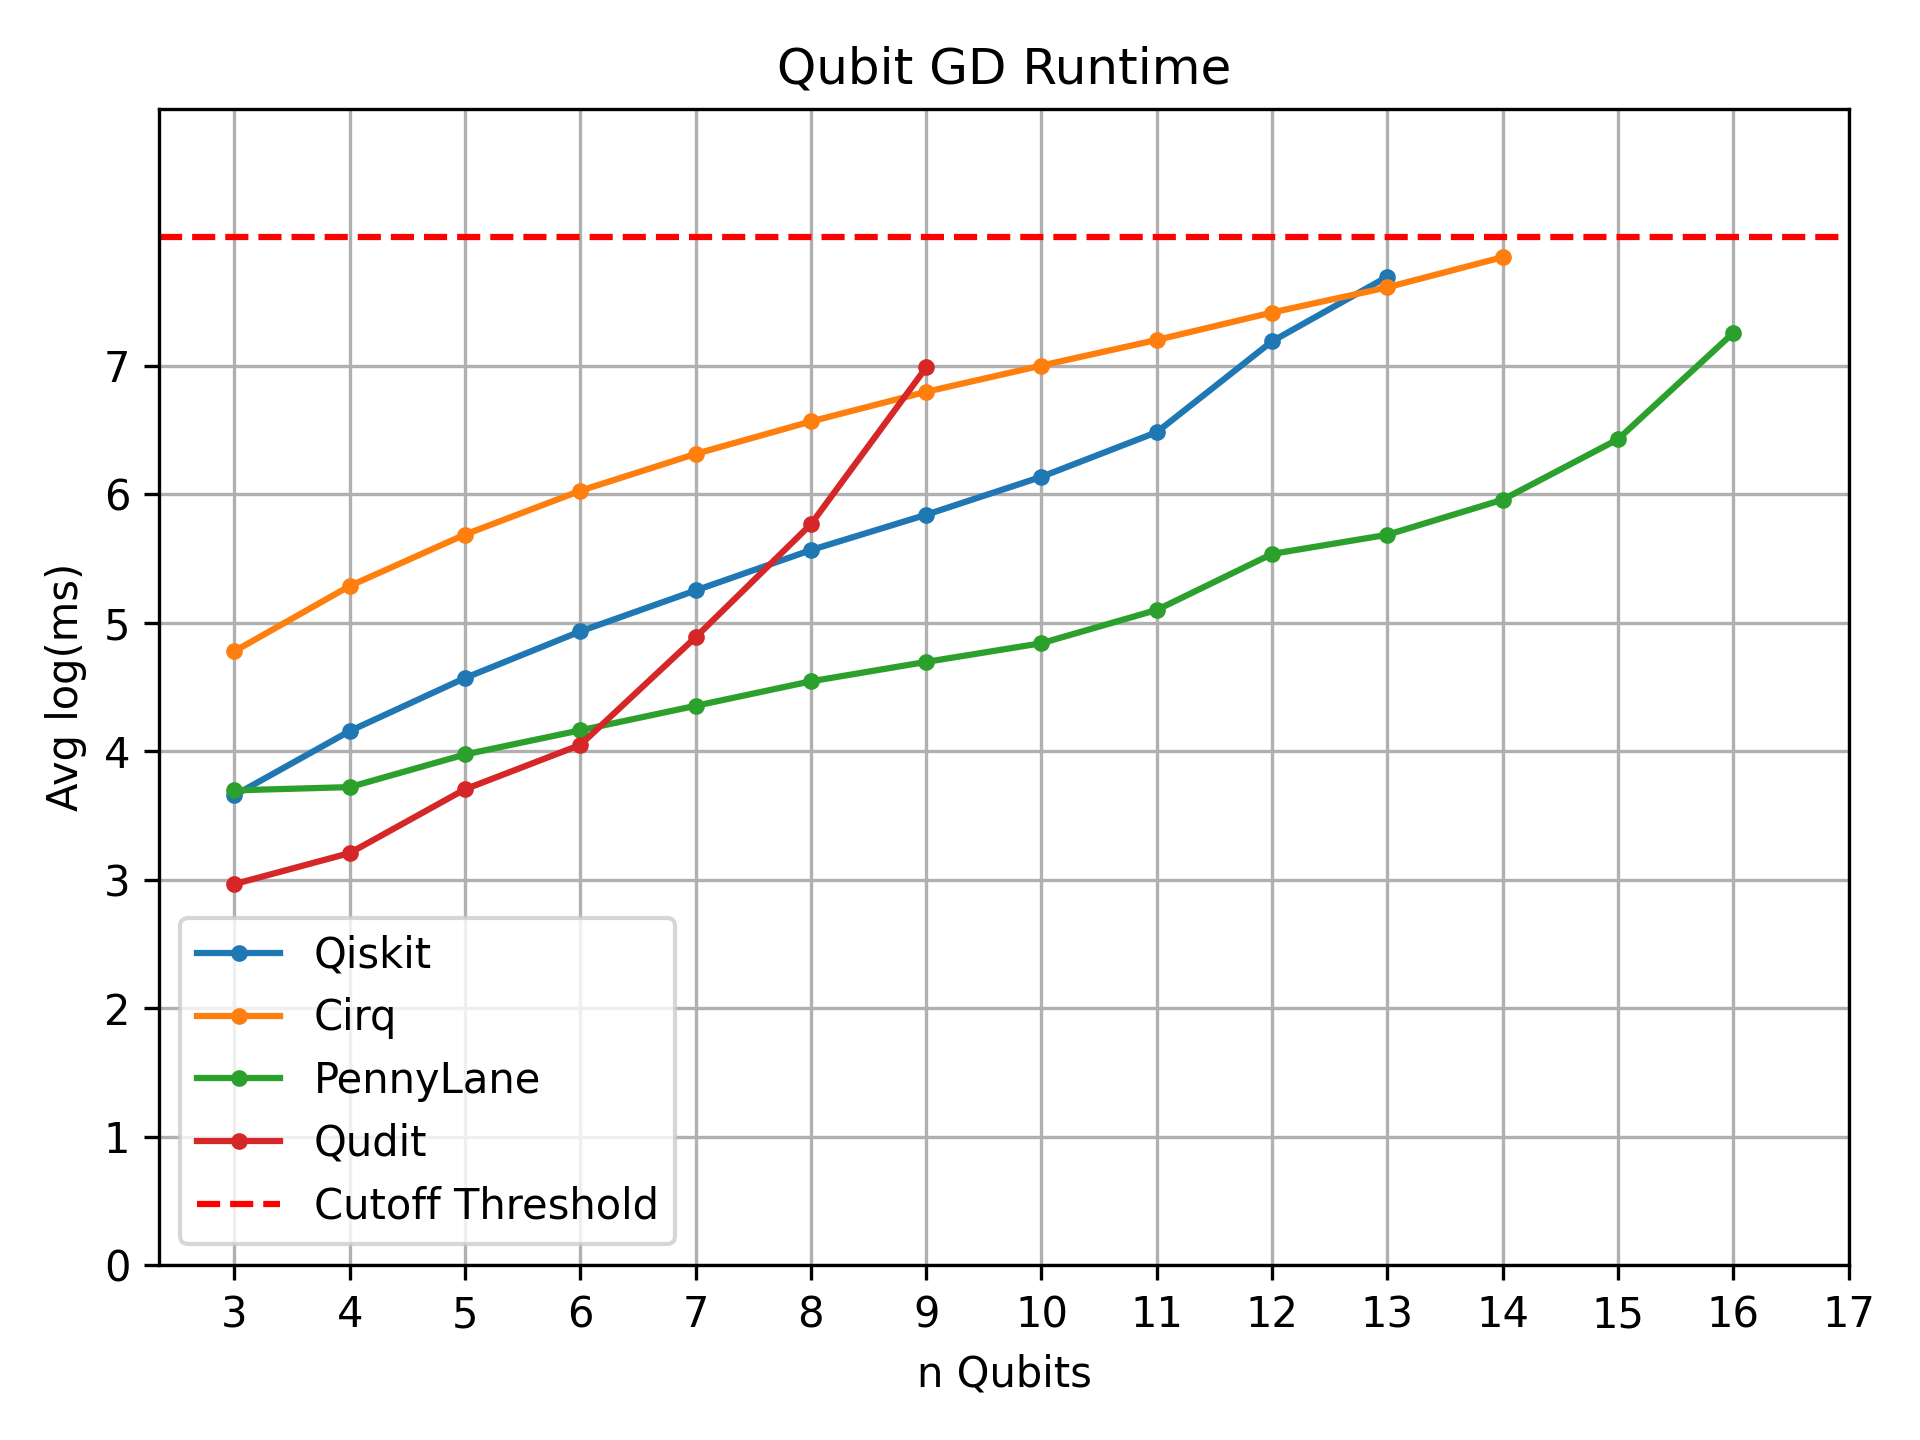
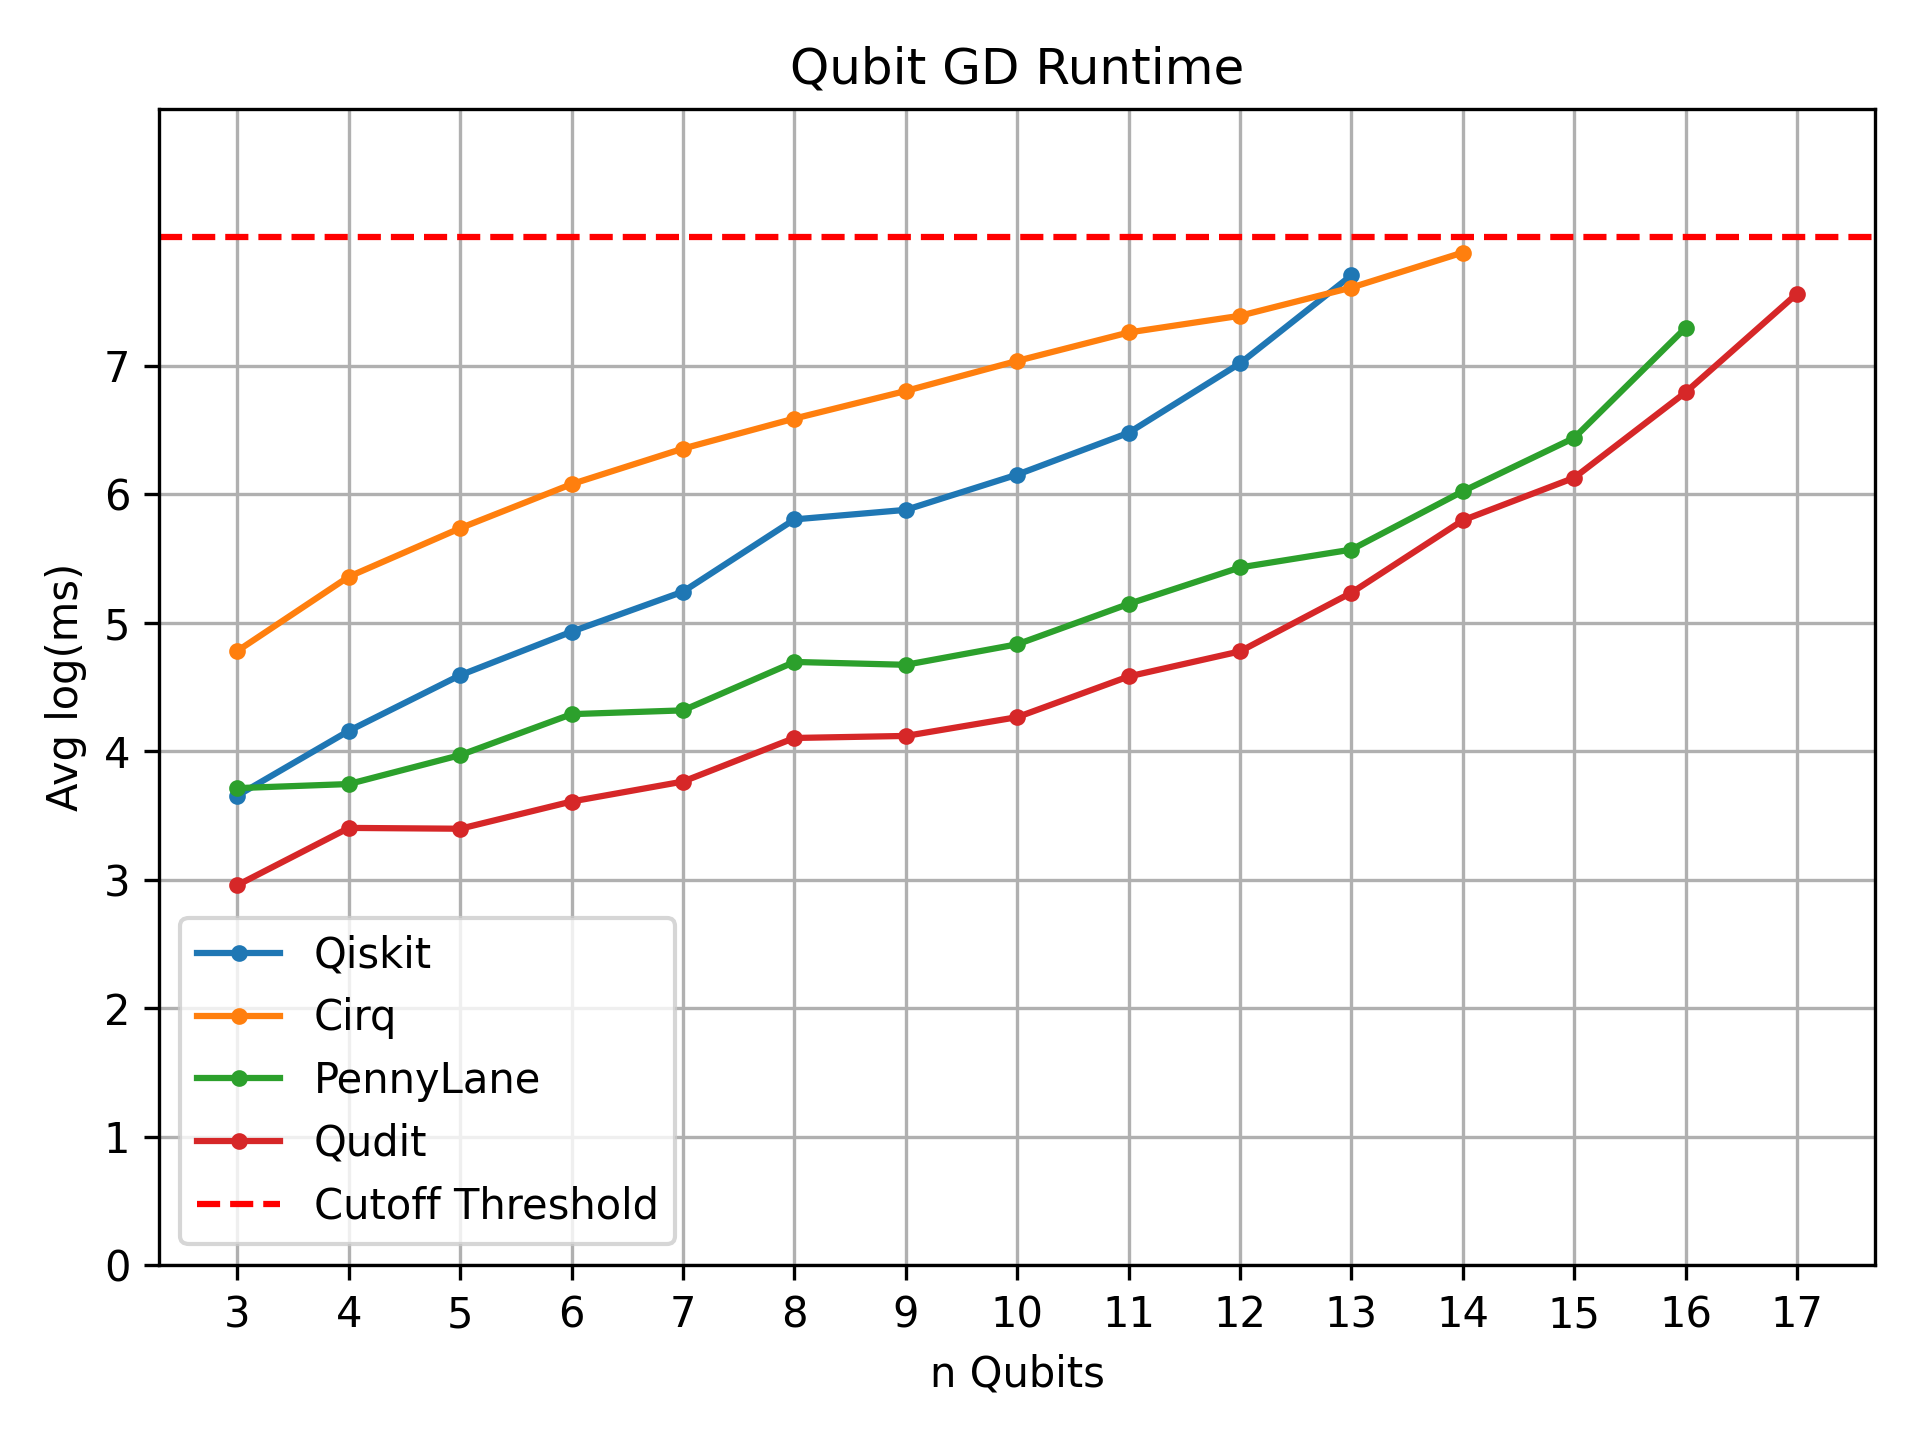
init gpu, better sgd

diff --git a/bench/nbit_ghz_gpu.py b/bench/nbit_ghz_gpu.py
@@ -1,0 +1,179 @@
+import sys, json
+
+sys.path.append("..")
+import sys
+import json
+import numpy as np
+import matplotlib.pyplot as plt
+from time import perf_counter as bench
+import torch
+import cudaq
+import pennylane as qml
+import quforge.quforge as qf
+from qiskit_aer import AerSimulator
+from qiskit.circuit import QuantumCircuit as Qiskitc
+from qudit.circuit import Circuit as QuditCircuit
+from qudiet.core.quantum_circuit import QuantumCircuit as Qudietc
+from qudiet.core.backend import CudaBackend
+
+
+def b_qiskit(n, repeats):
+    backend = AerSimulator(method="statevector", device="GPU")
+    qc = Qiskitc(n)
+
+    qc.h(0)
+    for i in range(n - 1):
+        qc.cx(i, i + 1)
+
+    backend.run(qc).result()
+    start = bench()
+    for _ in range(repeats):
+        _ = backend.run(qc).result().get_statevector()
+    return (bench() - start) / repeats
+
+
+def b_pennylane(n, repeats):
+    dev = qml.device("lightning.gpu", wires=n)
+
+    @qml.qnode(dev, diff_method=None)
+    def ghz_circuit():
+        qml.Hadamard(wires=0)
+        for i in range(n - 1):
+            qml.CNOT(wires=[i, i + 1])
+        return qml.state()
+
+    ghz_circuit()
+    start = bench()
+    for _ in range(repeats):
+        _ = ghz_circuit()
+    return (bench() - start) / repeats
+
+
+def b_qudit(n, repeats):
+    device = "cuda"
+
+    circuit = QuditCircuit(n, dim=2, device=device)
+    CX = circuit.make([[1, 0, 0, 0], [0, 1, 0, 0], [0, 0, 0, 1], [0, 0, 1, 0]], dim=2)
+    H = circuit.make([[1, 1], [1, -1]], dim=2) / np.sqrt(2)
+
+    circuit.gate(H, [0])
+    for i in range(n - 1):
+        circuit.gate(CX, [i, i + 1])
+
+    x0 = torch.zeros(2**n, dtype=torch.complex64, device=device)
+    x0[0] = 1.0
+
+    torch.cuda.synchronize()
+    start = bench()
+    for _ in range(repeats):
+        _ = circuit(x0)
+    torch.cuda.synchronize()
+
+    return (bench() - start) / repeats
+
+
+def b_quforge(n, repeats):
+    device = "cuda"
+
+    circ = qf.Circuit(dim=2, wires=n)
+    circ.H(index=[0])
+
+    for i in range(n - 1):
+        circ.CNOT(index=[i, i + 1])
+
+    x0 = torch.zeros(2**n, dtype=torch.complex64, device=device)
+    x0[0] = 1.0
+
+    torch.cuda.synchronize()
+    start = bench()
+    for _ in range(repeats):
+        _ = circ(x0)
+    torch.cuda.synchronize()
+
+    return (bench() - start) / repeats
+
+
+def b_qudiet(n, repeats):
+    qc = Qudietc(qregs=[2] * n, backend=CudaBackend)
+
+    qc.h(0)
+    for i in range(n - 1):
+        qc.cx([i, i + 1], 2)
+    qc.measure_all()
+
+    qc.run()
+    start = bench()
+
+    for _ in range(repeats):
+        _ = qc.run()
+    return (bench() - start) / repeats
+
+
+def b_cudaq(n, repeats):
+    cudaq.set_target("nvidia")
+    kernel = cudaq.make_kernel()
+    qubits = kernel.qalloc(n)
+    kernel.h(qubits[0])
+
+    for i in range(n - 1):
+        kernel.cx(qubits[i], qubits[i + 1])
+    _ = cudaq.get_state(kernel)
+    start = bench()
+
+    for _ in range(repeats):
+        _ = cudaq.get_state(kernel)
+
+    return (bench() - start) / repeats
+
+
+n_range = range(3, 25)
+LOG_THRESHOLD = 6
+repeats = 100
+ms = 1e3
+backends = {
+    "CUDAQ": b_cudaq,
+    "Qiskit-Aer": b_qiskit,
+    "PennyLane": b_pennylane,
+    "Qudiet": b_qudiet,
+    "Qudit": b_qudit,
+    "QuForge": b_quforge,
+}
+
+results = {name: [] for name in backends}
+
+for n in n_range:
+    print(f"{n}/{len(n_range) + 2}")
+    for name in list(backends.keys()):
+        bench_fn = backends[name]
+        if bench_fn is None:
+            continue
+
+        t = bench_fn(n, repeats) * ms
+        log_t = np.log(t)
+        print(f"\t{name}: {t:.3f} ms")
+        if log_t > LOG_THRESHOLD:
+            backends[name] = None  # Mark as stopped
+            continue
+        results[name].append(log_t)
+
+for name in list(backends.keys()):
+    if backends[name] is None:
+        del backends[name]
+
+for name, times in results.items():
+    if times:
+        plt.plot(n_range[: len(times)], times, label=name, marker=".")
+
+data = {name: times for name, times in results.items() if times}
+with open("bench_n2.json", "w") as f:
+    json.dump(data, f, indent=4)
+
+plt.xlabel("Num Qubits (n)")
+plt.ylabel("log (avg ms/run)")
+plt.title("GHZ Circuit Benchmark")
+plt.xticks(n_range)
+plt.legend()
+plt.axhline(LOG_THRESHOLD, color="red", linestyle="--", label="Log Threshold")
+plt.grid(True)
+plt.tight_layout()
+plt.savefig("bench_n2.png", dpi=300)

diff --git a/qudit/circuit/gates.py b/qudit/circuit/gates.py
@@ -67,11 +67,6 @@ class BaseGate(nn.Module):
     def _apply_inverse(self, M):
         return torch.conj(M).T.contiguous() if self.inverse else M
 
-    # def _infer_dits(self, x):
-    #     if isinstance(self.dims[0], int) and len(set(self.dims)) == 1:
-    #         return int(round(log(x.shape[0], self.dims[0])))
-    #     return len(self.dims)
-
     def _infer_dits(self, x: torch.Tensor) -> int:
         dims: List[int] = self.dims
 
@@ -230,21 +225,36 @@ class ParametrizedRotation(BaseGate):
         return {t: level for t, level in zip(self.index, levels)}
 
     def forward(self, x: torch.Tensor):
-        L = self._infer_dits(x)
-        U_total = torch.eye(1, device=self.device, dtype=C64)
-        for i in range(L):
-            d = self.dims[i]
-            if i in self.index:
-                j_ = self.j_map[i]
-                k_ = self.k_map[i] if self.k_map else 0
-                M_block = self._getRMat(d, j_, k_, self.angle)
-            else:
-                M_block = torch.eye(d, device=self.device)
-            U_total = torch.kron(U_total, M_block)
+        psi = x.view(*self.dims)
 
-        x = x.to(torch.complex64)
-        U_total = U_total.to(torch.complex64)
-        return U_total @ x
+        for i in self.index:
+            # 1. Bring target to the front
+            new_order = [i] + [j for j in range(self.wires) if j != i]
+            psi_perm = psi.permute(*new_order).contiguous()
+
+            # 2. Reshape
+            d_i = self.dims[i]
+            d_rest = self.total_dim // d_i
+            psi_flat = psi_perm.view(d_i, d_rest)
+
+            # 3. small (d_i x d_i) rotation mat
+            j_ = self.j_map[i]
+            k_ = self.k_map[i] if self.k_map is not None else 0
+            M_block = self._getRMat(d_i, j_, k_, self.angle)
+
+            # 4. small gate matrix
+            psi_ = M_block @ psi_flat
+
+            # 5. Reshape back
+            psi_ = psi_.view(*[self.dims[j] for j in new_order])
+
+            # 6. Permute
+            inv_order = [new_order.index(j) for j in range(self.wires)]
+            psi = psi_.permute(*inv_order).contiguous()
+
+        # 7. Return the final
+        return psi.view(self.total_dim, 1)
+
 
 
 class RX(ParametrizedRotation):
@@ -447,14 +457,12 @@ class CU(BaseGate):
     def matrix(self):
         return self.U_matrix
 
-
 def pauli_x(d=2):
     if isinstance(d, list):
         d = d[0]
     X = torch.eye(d, dtype=C64)
     X = X.roll(1, dims=1)
     return X
-
 
 def pauli_z(d=2):
     if isinstance(d, list):
@@ -574,8 +582,8 @@ class U(BaseGate):
             psi_ = self.M @ psi_flat
 
             new_shape = [self.dims[i] for i in new_order]
-            psi_perm_transformed = psi_.reshape(*new_shape)
-            psi_final = psi_perm_transformed.permute(*inv_order).contiguous()
+            psi_ = psi_.reshape(*new_shape)
+            psi_final = psi_.permute(*inv_order).contiguous()
             return psi_final.view(self.total_dim, 1)
 
     def matrix(self):

diff --git a/bench/gd.py b/bench/gd.py
@@ -8,12 +8,12 @@ import torch
 import numpy as np
 import sympy
 import cirq
-from qiskit.circuit import QuantumCircuit, ParameterVector
+from qiskit.circuit import QuantumCircuit as Qiskitc, ParameterVector
 from qiskit.quantum_info import Statevector
-from qudit.circuit import Circuit
+from qudit.circuit import Circuit as Quditc
 import qudit.circuit.gates as G
-from time import time
 import matplotlib.pyplot as plt
+from time import time
 
 C64 = torch.complex64
 lr = 0.05
@@ -27,7 +27,7 @@ class HybridQubit(nn.Module):
     def __init__(self, n, device):
         super().__init__()
         self.wires, self.dim = n, 2
-        self.circuit = C = Circuit(n, dim=2, device=device)
+        self.circuit = C = Quditc(n, dim=2, device=device)
 
         rx = torch.randn(n, requires_grad=True)
         ry = torch.randn(n, requires_grad=True)
@@ -69,7 +69,7 @@ def b_qiskit(n, r):
     rx = ParameterVector("rx", n)
     ry = ParameterVector("ry", n)
 
-    qc = QuantumCircuit(n)
+    qc = Qiskitc(n)
     for i in range(n):
         qc.rx(rx[i], i)
         qc.ry(ry[i], i)
